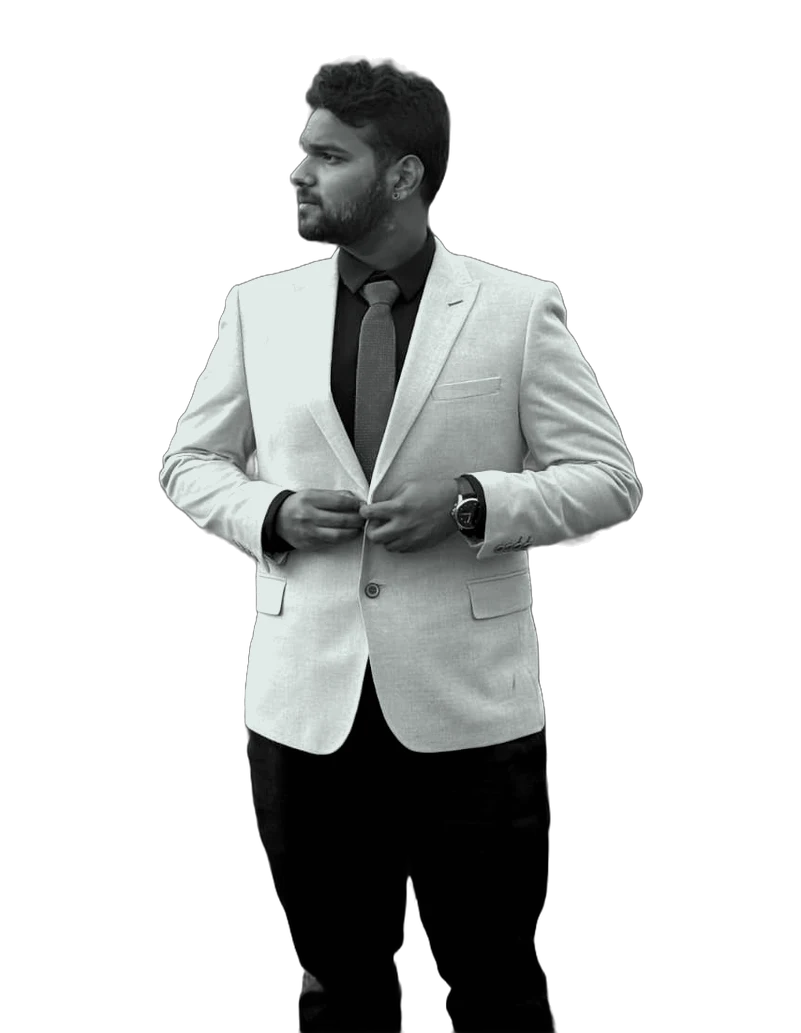
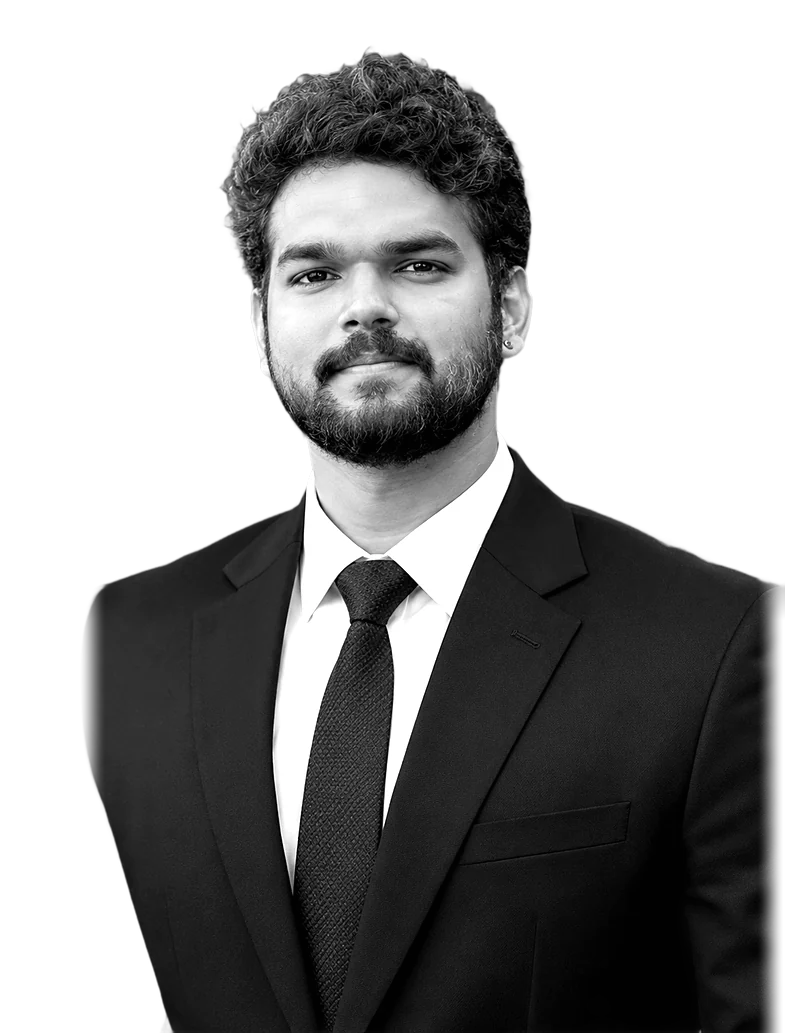
New photo

diff --git a/index.html b/index.html
@@ -667,7 +667,7 @@ html:not([data-mode="dark"]) .orrfly{background:radial-gradient(circle at var(--
 .mform label.qc:has(input:checked)::before{border:5px solid var(--foreground)}
 .mform label.qc:has(input:focus-visible){outline:2px solid var(--accent);outline-offset:2px}
 .mform label.qc--q>span{color:rgba(var(--fg-rgb),.7);font-weight:400}
-.cur{display:flex;gap:.25rem;align-self:flex-start;padding:.25rem;margin-bottom:.25rem;border-radius:99px;background:var(--surface)}
+.mform .cur{display:flex;gap:.25rem;align-self:flex-start;padding:.25rem;margin-bottom:.25rem;border-radius:99px;background:var(--surface)}
 .mform .cur label{position:relative;flex-direction:row;gap:0}
 .mform .cur input{position:absolute;opacity:0;width:1px;height:1px;pointer-events:none}
 .mform .cur span{display:inline-flex;align-items:center;min-height:2.25rem;padding:0 .9rem;border-radius:99px;font-size:.8125rem;font-weight:600;text-transform:none;letter-spacing:0;color:rgba(var(--fg-rgb),.62);cursor:pointer;transition:background .2s,color .2s}
@@ -871,13 +871,7 @@ html:not([data-mode="dark"]) .story__amb i:nth-child(5){--c1:255,214,176;--c2:20
   /* footer: space between the two research entries */
   .sf__cols>div:nth-child(3) li+li{margin-top:.55rem}
   /* back-to-top: smaller and tucked into the corner so it covers less text */
-    .totop{width:2.6rem;height:2.6rem;right:max(.75rem,env(safe-area-inset-right));bottom:max(.75rem,env(safe-area-inset-bottom))}
-  /* no borders, rounded edges or shadows between sections on phones */
-  .hero,.sf{border-radius:0 !important}
-  .orr__info{border:0 !important}
-  .story{border-top:0 !important;box-shadow:none !important}
-  .story__clock{border-bottom:0 !important;box-shadow:none !important}
-  .sf__cols{border-top:0 !important}
+  .totop{width:2.6rem;height:2.6rem;right:max(.75rem,env(safe-area-inset-right));bottom:max(.75rem,env(safe-area-inset-bottom))}
 }
 </style>
 </head>
@@ -928,7 +922,7 @@ html:not([data-mode="dark"]) .story__amb i:nth-child(5){--c1:255,214,176;--c2:20
       <div class="fig" id="fig">
         <img id="figBase" src="assets/hero-photo-bw.webp" alt="" decoding="async" fetchpriority="high" aria-hidden="true">
         <canvas id="figCanvas" aria-hidden="true"></canvas>
-        <button class="fig__card" id="ptabOpen" aria-haspopup="dialog" aria-controls="ptab">Me, in 21 elements</button>
+        <button class="fig__card" id="ptabOpen" aria-haspopup="dialog" aria-controls="ptab">My Elements</button>
       </div>
     </div>
 
@@ -955,7 +949,7 @@ html:not([data-mode="dark"]) .story__amb i:nth-child(5){--c1:255,214,176;--c2:20
             <span class="pill__in" data-h="s 1 1.04" data-hs="320 18" data-ht=".pill">See my work</span>
           </button>
         </div>
-        <p class="proof rv" style="--d:340ms"><span class="by-day">2 years building GxP-validated LIMS for GSK and BMS · MSc Computational Neuroscience (Distinction), Nottingham</span><span class="by-night">MSc Computational Neuroscience (Distinction), Nottingham · hippocampal memory model, manuscript in preparation</span></p>
+        <p class="proof rv" style="--d:340ms"><span class="by-day">2 years building GxP-validated LIMS for GSK and BMS · now freelance LIMS developer with HTIC, IIT Madras · MSc Computational Neuroscience (Distinction)</span><span class="by-night">MSc Computational Neuroscience (Distinction), Nottingham · hippocampal memory model, manuscript in preparation</span></p>
       </div>
 
     </div>
@@ -1019,13 +1013,14 @@ html:not([data-mode="dark"]) .story__amb i:nth-child(5){--c1:255,214,176;--c2:20
           <div class="story__line">
             <span class="story__rail" aria-hidden="true"></span><span class="story__ttrack" aria-hidden="true"><span class="story__tail"></span></span><span class="story__dtrack" aria-hidden="true"><span class="story__dot"></span></span>
             <ol class="story__list">
-          <li class="ch ch--now" data-y="2026" data-when="2025 — Present">
-            <p class="ch__date">2025 — Present</p>
-            <h3 class="ch__t">Freelance lab software</h3>
-            <p class="ch__org">Independent, Nottingham</p>
+          <li class="ch ch--now" data-y="2026" data-when="Dec 2025 — Present">
+            <p class="ch__date">Dec 2025 — Present</p>
+            <h3 class="ch__t">Independent Researcher &amp; Freelance LIMS Developer</h3>
+            <p class="ch__org">Nottingham · freelance with HTIC, IIT Madras</p>
             <ul class="ch__b">
-              <li>Building a sample-management and data-visualisation platform for a research client (details under NDA).</li>
-              <li>Taking on LIMS configuration, instrument integration and lab-data work for small teams.</li>
+              <li>Independent research on memory and sleep, including the hippocampal-model (C-HORSE) manuscript in preparation with Dr Nick Myers.</li>
+              <li>Since Sept 2026: freelance LIMS developer with HTIC, IIT Madras.</li>
+              <li>Building independent LIMS: sample management, workflows and data visualisation, plus instrument integration and lab-data work for small teams, alongside part-time work in a lab.</li>
             </ul>
           </li>
           <li class="ch" data-y="2025" data-when="2024 — 2025">
@@ -1051,7 +1046,7 @@ html:not([data-mode="dark"]) .story__amb i:nth-child(5){--c1:255,214,176;--c2:20
             <h3 class="ch__t">Research Assistant, Vascular Biology</h3>
             <p class="ch__org">SASTRA University, India</p>
             <ul class="ch__b">
-              <li>Designed and ran ischaemia-reperfusion experiments; worked hands-on with SEM and TEM on tissue.</li>
+              <li>Alongside my BTech: designed and ran ischaemia-reperfusion experiments; worked hands-on with SEM and TEM on tissue.</li>
               <li>Co-first author, Naunyn-Schmiedeberg’s Archives of Pharmacology (2023).</li>
             </ul>
           </li>
@@ -1084,9 +1079,9 @@ html:not([data-mode="dark"]) .story__amb i:nth-child(5){--c1:255,214,176;--c2:20
     </div>
     <div class="sf__cols">
       <div><h3>Work</h3><ul class="work"><li><a href="rooms/lab.html" data-door="0">The Lab</a></li><li><a href="rooms/freelance.html" data-door="1">Freelance</a></li><li><a href="rooms/memory.html" data-door="2">Memory &amp; Sleep</a></li><li><a href="rooms/vision.html" data-door="3">Machine Vision</a></li><li><a href="rooms/bench.html" data-door="4">The Bench</a></li></ul></div>
-      <div><h3>Navigate</h3><ul><li><a href="./" data-go="home">Home</a></li><li><a href="./#about" data-go="about">My story</a></li><li><button data-contact="">Contact</button></li><li><a href="assets/Jefri-Thimoathi-Johnson-CV.pdf" download data-cvdl>Download CV</a></li><li><a href="mailto:jefrithimoathijohnson@gmail.com">Email</a></li><li><a href="https://www.linkedin.com/in/jefri-thimoathi-johnson-8b94811a7" target="_blank" rel="noopener">LinkedIn ↗</a></li><li><a href="https://github.com/jefrithimoathijohnson" target="_blank" rel="noopener">GitHub ↗</a></li></ul></div>
+      <div><h3>Navigate</h3><ul><li><a href="./" data-go="home">Home</a></li><li><a href="./#about" data-go="about">My story</a></li><li><button data-contact="">Contact</button></li><li><a href="assets/Jefri-Thimoathi-Johnson-CV.pdf" download data-cvdl>Download CV</a></li><li><a href="mailto:jefrithimoathijohnson@gmail.com">Email</a></li><li><a href="https://www.linkedin.com/in/jefri-thimoathi-johnson-8b94811a7" target="_blank" rel="noopener">LinkedIn ↗</a></li><li><a href="https://github.com/johnsj09" target="_blank" rel="noopener">GitHub ↗</a></li></ul></div>
       <div><h3>Research</h3><ul><li><a href="https://doi.org/10.1007/s00210-023-02481-x" target="_blank" rel="noopener">Co-first author, Naunyn-Schmiedeberg's Arch. Pharmacol. (2023) ↗</a></li><li class="st">Hippocampal memory model (C-HORSE): manuscript in preparation with Dr Nick Myers</li></ul></div>
-      <div><h3>Status</h3><ul><li class="st">Open to work</li><li class="st">Eligible to work in the UK (Graduate visa)</li><li class="st">Nottingham, UK · on-site, hybrid or remote</li><li class="st">Local time <span data-ftime="">—</span></li></ul></div>
+      <div><h3>Status</h3><ul><li class="st">Open to full-time roles · freelance projects welcome</li><li class="st">Eligible to work in the UK (Graduate visa)</li><li class="st">Nottingham, UK · on-site, hybrid or remote</li><li class="st">Local time <span data-ftime="">—</span></li></ul></div>
     </div>
     <div class="sf__bot"><span>© <span data-fyear="">2026</span> Jefri Thimoathi Johnson.</span><button data-go="home">Back to top ↑</button></div>
   </div>
@@ -2110,7 +2105,7 @@ const toggleMode = () => setMode(getMode() === 'dark' ? 'light' : 'dark');
   const TITLES = ['The Lab', 'Freelance', 'Memory & Sleep', 'Machine Vision', 'The Bench'];
   const INFO = [   // [years, sub-headline, highlights]
     ['2022–24 · Zifo, with GSK and BMS', 'Two years inside regulated pharma labs', ['LIMS data models & workflows', 'Java & REST/SOAP integrations', 'AWS S3 pipeline, 50% faster', 'GxP validation & documentation']],
-    ['2025–now · Independent', 'Lab software for small research teams', ['Sample management & tracking', 'Data visualisation dashboards', 'LIMS setup & configuration', 'Client work kept under NDA']],
+    ['Dec 2025–Present · Independent', 'LIMS and lab software for research teams', ['Freelance with HTIC, IIT Madras', 'Sample management & tracking', 'Data visualisation dashboards', 'LIMS setup & configuration']],
     ['2024–25 · MSc, Nottingham', 'How one circuit learns rules and episodes', ['Hippocampal model (C-HORSE)', 'Museum task: 18 paintings', 'Lesion tests on two pathways', 'Sleep stages & replay']],
     ['2024–25 · MSc project', 'A self-driving car on a Raspberry Pi', ['CNN steering & speed', 'SSD-MobileNetV2 detector', '0.96 mAP at 45 fps', 'Supervised by Dr Maggie Lieu']],
     ['2019–22 · SASTRA University', 'Where it started: wet-lab research', ['Ischaemia-reperfusion studies', 'SEM & TEM on tissue', 'Peer-reviewed paper, 2023']],

diff --git a/rooms/freelance.html b/rooms/freelance.html
@@ -3,7 +3,7 @@
 <meta charset="UTF-8">
 <meta name="viewport" content="width=device-width, initial-scale=1">
 <title>Freelance — Jefri Thimoathi Johnson</title>
-<meta name="description" content="Freelance: part of Jefri Thimoathi Johnson's portfolio.">
+<meta name="description" content="Freelance LIMS and lab software: sample management, workflows and data visualisation for research teams, including work with HTIC, IIT Madras.">
 <link rel="icon" href="../favicon.ico">
 <link rel="preload" href="../fonts/onest-latin.woff2" as="font" type="font/woff2" crossorigin="">
 <link rel="stylesheet" href="room.css">
@@ -20,7 +20,7 @@
 <main id="main">
   <p class="eyebrow rv"><i></i>Freelance</p>
   <h1 class="rv">Lab software, sized for <em>small</em> teams.</h1>
-  <p class="lead rv">Right now I am designing and building a sample-management and data-visualisation platform for a research client: website first, app later. The details are under NDA, so this room shows the idea rather than the product.</p>
+  <p class="lead rv">Since September 2026 I have been a freelance LIMS developer with HTIC, IIT Madras. Alongside that, I am designing and building a sample-management and data-visualisation platform for a research client: website first, app later. The details are under NDA, so this room shows the idea rather than the product.</p>
   <div class="facts sec rv"><div class="fact"><b>Web</b><span>first release: a browser app the whole team can use</span></div><div class="fact"><b>App</b><span>next: the same records on a phone at the bench</span></div><div class="fact"><b>1</b><span>place to log, find and follow every sample</span></div><div class="fact"><b>NDA</b><span>client and data stay private; this page is a sketch</span></div></div>
   <section class="sec rv">
     <div class="sec__head"><div><h2>Where is that sample now?</h2></div><p>The question every lab asks daily. Here is the idea behind the system I'm building: each dot is a sample moving through its life. Hover a dot to follow it, or drop in a new batch.</p></div>
@@ -37,7 +37,7 @@
     <div class="next__btns"><a class="chip" href="memory.html" data-go="door:2">Open the door →</a><a class="chip" href="../index.html#contact" data-go="contact">Work with me</a></div>
   </div>
 </main>
-<footer>Jefri Thimoathi Johnson · Nottingham, UK · Press Esc to fly back out</footer>
+<footer>Jefri Thimoathi Johnson · Nottingham, UK<span class="esc"> · Press Esc to fly back out</span></footer>
 <script>
 // edit mode: open this page on your own computer with ?edit to change its text. Every element is numbered here,
 // before any script touches the page, so edits can be written back into this file.

diff --git a/404.html b/404.html
@@ -1,0 +1,51 @@
+<!DOCTYPE html>
+<html lang="en">
+<head>
+<meta charset="utf-8">
+<meta name="viewport" content="width=device-width, initial-scale=1">
+<title>Page not found — Jefri Thimoathi Johnson</title>
+<meta name="robots" content="noindex">
+<link rel="icon" href="/favicon.ico">
+<style>
+@font-face{font-family:'Onest';font-style:normal;font-display:swap;font-weight:100 900;src:url(/fonts/onest-latin.woff2) format('woff2')}
+*{box-sizing:border-box;margin:0}
+html,body{height:100%}
+body{display:grid;place-items:center;padding:2rem;font-family:'Onest',ui-sans-serif,system-ui,sans-serif;color:#efeaff;
+  background:radial-gradient(120% 90% at 50% 0%,#2a1f4d 0%,#16122a 55%,#0d0b1a 100%);overflow:hidden}
+canvas{position:fixed;inset:0;width:100%;height:100%;z-index:0}
+main{position:relative;z-index:1;max-width:34rem;text-align:center}
+.k{font:600 .75rem/1 ui-monospace,SFMono-Regular,Menlo,monospace;letter-spacing:.2em;text-transform:uppercase;color:#b6a4ff}
+h1{margin-top:1rem;font-size:clamp(2.2rem,7vw,3.6rem);line-height:1.05;letter-spacing:-.035em;font-weight:700}
+p{margin-top:1.1rem;font-size:1.0625rem;line-height:1.6;color:rgba(239,234,255,.72)}
+a{display:inline-flex;align-items:center;gap:.6rem;margin-top:2rem;min-height:48px;padding:0 1.5rem;border-radius:999px;background:#efeaff;color:#16122a;font-weight:600;text-decoration:none;transition:transform .3s cubic-bezier(.34,1.56,.64,1)}
+a:hover{transform:scale(1.04)}
+a:focus-visible{outline:2px solid #b6a4ff;outline-offset:3px}
+</style>
+</head>
+<body>
+<canvas id="sky" aria-hidden="true"></canvas>
+<main>
+  <p class="k">404 · Lost in the night</p>
+  <h1>This page drifted out of orbit.</h1>
+  <p>The link may be old or mistyped. Everything I do is back on the main page.</p>
+  <a href="/">Back to the site <span aria-hidden="true">→</span></a>
+</main>
+<script>
+// a still field of stars, drawn once
+(() => {
+  const c = document.getElementById('sky'), x = c.getContext('2d');
+  const draw = () => {
+    const d = Math.min(devicePixelRatio || 1, 1.5), w = innerWidth, h = innerHeight;
+    c.width = w * d; c.height = h * d; x.scale(d, d);
+    for (let i = 0; i < Math.round(w * h / 5000); i++){
+      const r = Math.random() * 1.3 + .2;
+      x.globalAlpha = .25 + Math.random() * .6;
+      x.fillStyle = Math.random() < .15 ? '#f2a57a' : Math.random() < .35 ? '#b6a4ff' : '#efeaff';
+      x.beginPath(); x.arc(Math.random() * w, Math.random() * h, r, 0, 7); x.fill();
+    }
+  };
+  draw(); addEventListener('resize', draw);
+})();
+</script>
+</body>
+</html>

diff --git a/rooms/room.js b/rooms/room.js
@@ -181,7 +181,7 @@
       // nodes
       rects = [];
       const node = (p, label, key, big) => {
-        ctx.font = font(big ? 15 : 13, big ? 650 : 550);
+        ctx.font = font(big ? 15 : vert ? 12 : 13, big ? 650 : 550);
         const tw = ctx.measureText(label).width, bw = tw + (big ? 34 : 24), bh = big ? 46 : 34;
         const x = Math.max(4, Math.min(w - bw - 4, p[0] - bw / 2)), y = p[1] - bh / 2;
         const on = sel === key;
@@ -192,7 +192,8 @@
       // hub pulse
       const pr = 34 + (t * 18 % 26);
       ctx.beginPath(); ctx.arc(hub[0], hub[1], pr, 0, 7); ctx.strokeStyle = door; ctx.globalAlpha = Math.max(0, 1 - (pr - 34) / 26) * .5; ctx.lineWidth = 2; ctx.stroke(); ctx.globalAlpha = 1;
-      IN.forEach(([k, l], i) => node(pin[i], vert ? l.split(' ')[0] : l, k));
+      const SHORT = { plate: 'Plate', cds: 'CDS', bal: 'Balance', path: 'Pathology' };
+      IN.forEach(([k, l], i) => node(pin[i], vert ? SHORT[k] || l.split(' ')[0] : l, k));
       OUT.forEach(([k, l], i) => node(pout[i], vert ? l.split(' ')[0] : l, k));
       node(hub, 'LIMS', 'lims', true);
       ctx.font = font(11, 600); ctx.fillStyle = mut; ctx.textAlign = 'center';
@@ -337,7 +338,7 @@
       ctx.beginPath(); ctx.moveTo(X(m), T - 10); ctx.lineTo(X(m), H + 6); ctx.strokeStyle = acc2; ctx.lineWidth = 1.5; ctx.stroke();
       ctx.beginPath(); ctx.arc(X(m), Y(ST[s][1]), 6, 0, 7); ctx.fillStyle = acc2; ctx.fill();
       ctx.textAlign = 'left'; ctx.fillStyle = mut; ctx.font = font(11, 550);
-      for (let hr = 0; hr <= 8; hr++){ const x = L + hr / 8 * (Rr - L); ctx.fillText((23 + hr) % 24 + ':00', Math.min(x - 12, w - 40), H + 20); }
+      for (let hr = 0; hr <= 8; hr += w < 520 ? 2 : 1){ const x = L + hr / 8 * (Rr - L); ctx.fillText((23 + hr) % 24 + ':00', Math.min(x - 12, w - 40), H + 20); }
       // the EEG under the cursor
       const E0 = H + 40, EH = h - E0 - 12;
       ctx.beginPath();

diff --git a/rooms/bench.html b/rooms/bench.html
@@ -3,7 +3,7 @@
 <meta charset="UTF-8">
 <meta name="viewport" content="width=device-width, initial-scale=1">
 <title>The Bench — Jefri Thimoathi Johnson</title>
-<meta name="description" content="The Bench: part of Jefri Thimoathi Johnson's portfolio.">
+<meta name="description" content="The Bench: vascular biology research, ischaemia-reperfusion experiments, SEM and TEM imaging, and a co-first-author paper in Naunyn-Schmiedeberg's Archives of Pharmacology.">
 <link rel="icon" href="../favicon.ico">
 <link rel="preload" href="../fonts/onest-latin.woff2" as="font" type="font/woff2" crossorigin="">
 <link rel="stylesheet" href="room.css">
@@ -38,7 +38,7 @@
     <div class="next__btns"><a class="chip" href="lab.html" data-go="door:0">Open the door →</a><a class="chip" href="../index.html#contact" data-go="contact">Work with me</a></div>
   </div>
 </main>
-<footer>Jefri Thimoathi Johnson · Nottingham, UK · Press Esc to fly back out</footer>
+<footer>Jefri Thimoathi Johnson · Nottingham, UK<span class="esc"> · Press Esc to fly back out</span></footer>
 <script>
 // edit mode: open this page on your own computer with ?edit to change its text. Every element is numbered here,
 // before any script touches the page, so edits can be written back into this file.

diff --git a/rooms/memory.html b/rooms/memory.html
@@ -3,7 +3,7 @@
 <meta charset="UTF-8">
 <meta name="viewport" content="width=device-width, initial-scale=1">
 <title>Memory &amp; Sleep — Jefri Thimoathi Johnson</title>
-<meta name="description" content="Memory &amp; Sleep: part of Jefri Thimoathi Johnson's portfolio.">
+<meta name="description" content="Memory &amp; Sleep: a hippocampal model (C-HORSE) of how one circuit learns both rules and episodes, built for an MSc at the University of Nottingham.">
 <link rel="icon" href="../favicon.ico">
 <link rel="preload" href="../fonts/onest-latin.woff2" as="font" type="font/woff2" crossorigin="">
 <link rel="stylesheet" href="room.css">
@@ -50,7 +50,7 @@
     <div class="next__btns"><a class="chip" href="vision.html" data-go="door:3">Open the door →</a><a class="chip" href="../index.html#contact" data-go="contact">Work with me</a></div>
   </div>
 </main>
-<footer>Jefri Thimoathi Johnson · Nottingham, UK · Press Esc to fly back out</footer>
+<footer>Jefri Thimoathi Johnson · Nottingham, UK<span class="esc"> · Press Esc to fly back out</span></footer>
 <script>
 // edit mode: open this page on your own computer with ?edit to change its text. Every element is numbered here,
 // before any script touches the page, so edits can be written back into this file.

diff --git a/rooms/lab.html b/rooms/lab.html
@@ -3,7 +3,7 @@
 <meta charset="UTF-8">
 <meta name="viewport" content="width=device-width, initial-scale=1">
 <title>The Lab — Jefri Thimoathi Johnson</title>
-<meta name="description" content="The Lab: part of Jefri Thimoathi Johnson's portfolio.">
+<meta name="description" content="Lab informatics work: GxP-validated LIMS data models and workflows, and Java integrations to AWS S3, digital pathology and lab instruments, for GSK and BMS.">
 <link rel="icon" href="../favicon.ico">
 <link rel="preload" href="../fonts/onest-latin.woff2" as="font" type="font/woff2" crossorigin="">
 <link rel="stylesheet" href="room.css">
@@ -115,7 +115,7 @@
     <div class="next__btns"><a class="chip" href="freelance.html" data-go="door:1">Open the door →</a><a class="chip" href="../index.html#contact" data-go="contact">Work with me</a></div>
   </div>
 </main>
-<footer>Jefri Thimoathi Johnson · Nottingham, UK · Press Esc to fly back out</footer>
+<footer>Jefri Thimoathi Johnson · Nottingham, UK<span class="esc"> · Press Esc to fly back out</span></footer>
 <script>
 // edit mode: open this page on your own computer with ?edit to change its text. Every element is numbered here,
 // before any script touches the page, so edits can be written back into this file.

diff --git a/rooms/vision.html b/rooms/vision.html
@@ -3,7 +3,7 @@
 <meta charset="UTF-8">
 <meta name="viewport" content="width=device-width, initial-scale=1">
 <title>Machine Vision — Jefri Thimoathi Johnson</title>
-<meta name="description" content="Machine Vision: part of Jefri Thimoathi Johnson's portfolio.">
+<meta name="description" content="Machine Vision: a self-driving PiCar on a Raspberry Pi 4, with CNN steering and speed control and an SSD-MobileNetV2 object detector.">
 <link rel="icon" href="../favicon.ico">
 <link rel="preload" href="../fonts/onest-latin.woff2" as="font" type="font/woff2" crossorigin="">
 <link rel="stylesheet" href="room.css">
@@ -43,7 +43,7 @@
     <div class="next__btns"><a class="chip" href="bench.html" data-go="door:4">Open the door →</a><a class="chip" href="../index.html#contact" data-go="contact">Work with me</a></div>
   </div>
 </main>
-<footer>Jefri Thimoathi Johnson · Nottingham, UK · Press Esc to fly back out</footer>
+<footer>Jefri Thimoathi Johnson · Nottingham, UK<span class="esc"> · Press Esc to fly back out</span></footer>
 <script>
 // edit mode: open this page on your own computer with ?edit to change its text. Every element is numbered here,
 // before any script touches the page, so edits can be written back into this file.

diff --git a/rooms/room.css b/rooms/room.css
@@ -19,6 +19,9 @@ body.in .glow{opacity:1}
 
 .bar{position:fixed;top:0;left:0;right:0;z-index:5;display:flex;align-items:center;justify-content:space-between;gap:1rem;padding:1rem clamp(1rem,4vw,3rem);
   background:linear-gradient(var(--bg) 40%,transparent)}
+/* phones: a solid bar, so text never slides under the buttons */
+@media (max-width:767.98px){.bar{padding-top:.6rem;padding-bottom:.6rem;background:color-mix(in srgb,var(--bg) 94%,transparent);border-bottom:1px solid var(--line)}}
+@media (hover:none){.esc{display:none}}
 .chip{display:inline-flex;align-items:center;gap:.5rem;min-height:44px;padding:.55rem 1rem;border-radius:999px;border:1px solid var(--line);background:color-mix(in srgb,var(--panel) 70%,transparent);
   backdrop-filter:blur(10px);-webkit-backdrop-filter:blur(10px);font-size:.9rem;font-weight:500;text-decoration:none;transition:transform .3s cubic-bezier(.16,1,.3,1),background .3s}
 .chip:hover{transform:translateY(-2px);background:var(--panel)}

diff --git a/README.md b/README.md
@@ -1,12 +1,15 @@
 # Jefri Thimoathi Johnson — portfolio
 
-Static site: no build step. Upload the whole folder to a GitHub repository named
-`jefrithimoathijohnson.github.io`, then Settings → Pages → Deploy from branch → `main` / root.
+Static site: no build step. It lives in the GitHub repository behind `johnsj09.github.io` and is published
+by Cloudflare from that repository (every push to `main` republishes it). If you use Cloudflare, turn off
+GitHub Pages so only one copy of the site exists.
 
 ## What's where
 - `index.html` — the main page (light mode = lab informatics, dark mode = research; pull the cord to switch)
 - `rooms/` — the page behind each orb in the "My work" orrery (lab, freelance, memory, vision, bench), with `room.css` and `room.js`
 - `assets/hero-photo.webp` / `hero-photo-bw.webp` — your cut-out photo (colour, and the black-and-white base); keep 801×1033 with a transparent background if you replace them
+- `assets/share.jpg` — the 1200×630 picture shown when your link is shared (LinkedIn, WhatsApp, email)
+- `404.html` — the "page not found" page
 - `assets/Jefri-Thimoathi-Johnson-CV.pdf` — **add your CV here with exactly this name.** Every "Download CV" button points to it.
   Until it's there, those buttons open the CV request form instead.
 - `edit.js` — edit mode (see below). Only loads when you open a page with `?edit` on your own computer.
@@ -20,5 +23,5 @@ Alt+click to use a button normally. Save (or Ctrl/Cmd+S) and pick the same file 
 Text written by the code (not outlined in edit mode) is edited in the file itself:
 - the rotating roles under "I am a": search `index.html` for `const SETS`
 - the orrery's room details: search `index.html` for `INFO = [`
-- the periodic table ("Me, in 21 elements"): search `index.html` for `EL = [`
+- the periodic table ("My Elements"): search `index.html` for `EL = [`
 - room captions that change when you click a tab: `rooms/room.js`, search for `SAY`
